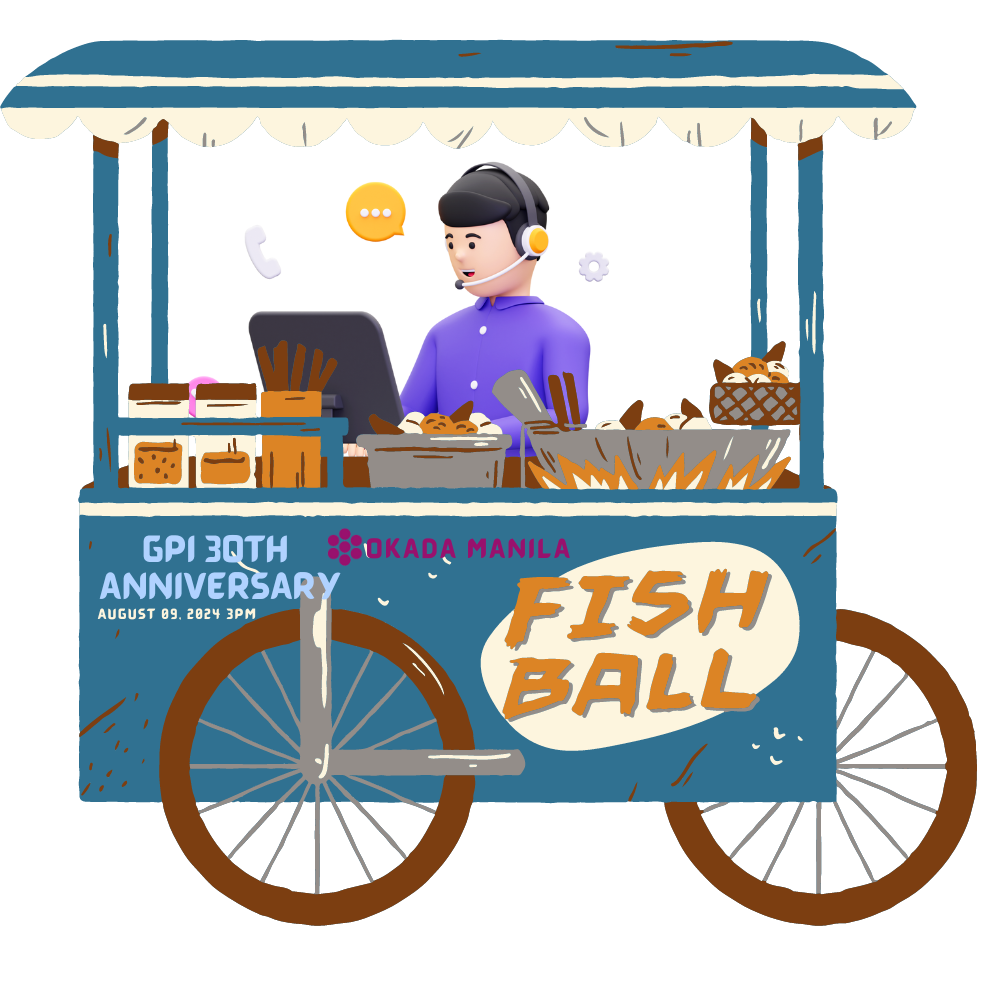
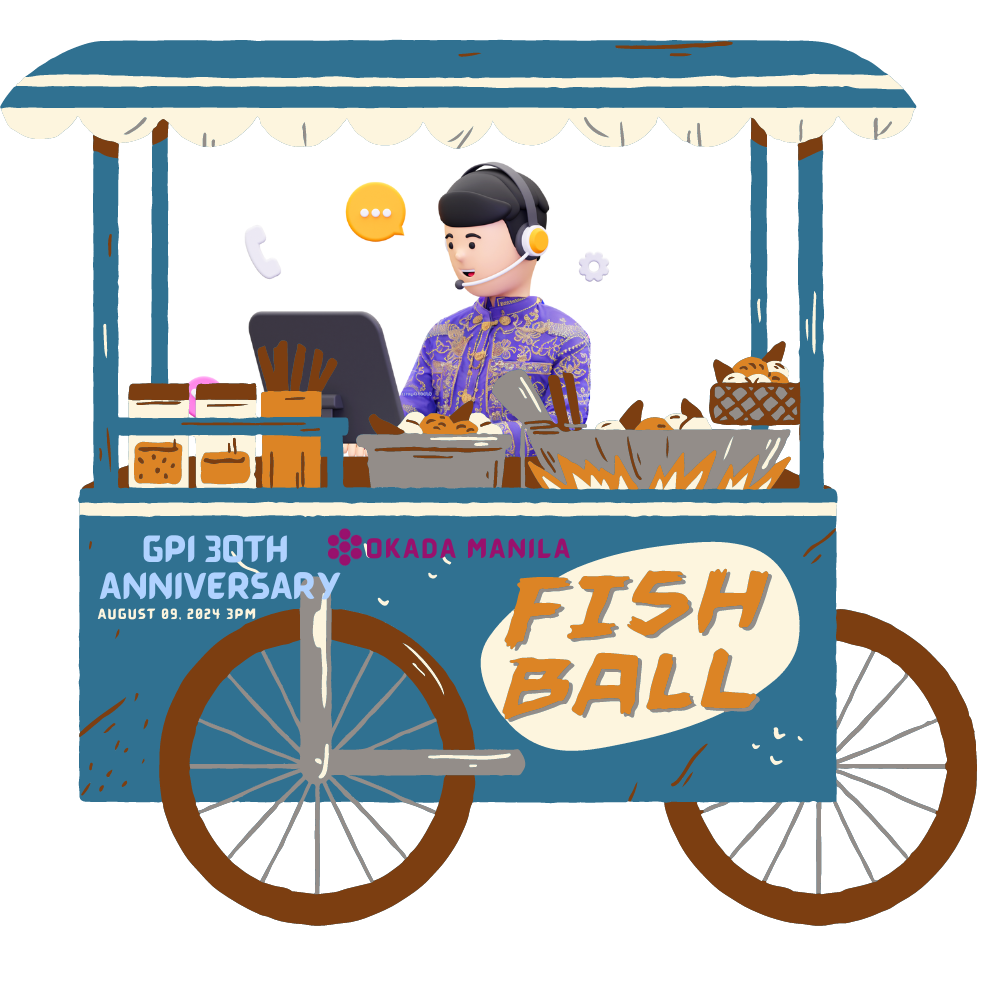
Fix job order filling error by increasing the character valu ein database and update sql in filled tickets tab

Changed region(s): [[0.403, 0.279, 0.589, 0.465]]

diff --git a/mis/index.php b/mis/index.php
@@ -795,13 +795,13 @@ if (isset($_POST['cancelJO'])) {
                                                     <div style="overflow:inherit" class="_qiHHw Ut_ecQ kHy45A">
                                                         <span class=" sr-only">Notifications</span>
                                                         <?php
-                                                        $sql1 = "SELECT COUNT(id) as 'pending' FROM request WHERE  `status2` ='admin' and `ticket_filer` = '$misname'";
+                                                        $sql1 = "SELECT COUNT(id) as 'pending' FROM request WHERE (`status2` ='admin' OR `status2` = 'head') AND `ticket_filer` = '$misname'";
                                                         $result = mysqli_query($con, $sql1);
                                                         while ($count = mysqli_fetch_assoc($result)) {
 
                                                             if ($count["pending"] > 0) {
                                                         ?>
-                                                                <div class=" absolute inline-flex items-center justify-center w-6 h-6 text-xs font-bold text-white bg-red-500 border-2 border-white rounded-full -top-2 -right-2 dark:border-border-white"> <?php $sql1 = "SELECT COUNT(id) as 'pending' FROM request WHERE  `status2` ='admin' and `ticket_filer` = '$misname'";
+                                                                <div class=" absolute inline-flex items-center justify-center w-6 h-6 text-xs font-bold text-white bg-red-500 border-2 border-white rounded-full -top-2 -right-2 dark:border-border-white"> <?php $sql1 = "SELECT COUNT(id) as 'pending' FROM request WHERE (`status2` ='admin' OR `status2` = 'head') AND `ticket_filer` = '$misname'";
                                                                                                                                                                                                                                                             $result = mysqli_query($con, $sql1);
                                                                                                                                                                                                                                                             while ($count = mysqli_fetch_assoc($result)) {
                                                                                                                                                                                                                                                                 echo $count["pending"];
@@ -981,8 +981,7 @@ if (isset($_POST['cancelJO'])) {
                             $end_date = $end_date->format('Y-m-d');
                             $a = 1;
                             $sql = "SELECT * FROM `request`
-                        WHERE `status2` ='admin'
-                        AND `ticket_filer` = '$misname'
+                        WHERE (`status2` ='admin' OR `status2` = 'head') AND `ticket_filer` = '$misname'
                         ORDER BY id ASC;";
                             $result = mysqli_query($con, $sql);
 

diff --git a/department-admin/myJobOrder.php b/department-admin/myJobOrder.php
@@ -793,13 +793,13 @@ if (isset($_POST['cancelJO'])) {
                                                     <div style="overflow:inherit" class="_qiHHw Ut_ecQ kHy45A">
                                                         <span class=" sr-only">Notifications</span>
                                                         <?php
-                                                        $sql1 = "SELECT COUNT(id) as 'pending' FROM request WHERE  `status2` ='admin' and `ticket_filer` = '$misname'";
+                                                        $sql1 = "SELECT COUNT(id) as 'pending' FROM request WHERE (`status2` ='admin' OR `status2` = 'head') AND `ticket_filer` = '$misname'";
                                                         $result = mysqli_query($con, $sql1);
                                                         while ($count = mysqli_fetch_assoc($result)) {
 
                                                             if ($count["pending"] > 0) {
                                                         ?>
-                                                                <div class=" absolute inline-flex items-center justify-center w-6 h-6 text-xs font-bold text-white bg-red-500 border-2 border-white rounded-full -top-2 -right-2 dark:border-border-white"> <?php $sql1 = "SELECT COUNT(id) as 'pending' FROM request WHERE  `status2` ='admin' and `ticket_filer` = '$misname'";
+                                                                <div class=" absolute inline-flex items-center justify-center w-6 h-6 text-xs font-bold text-white bg-red-500 border-2 border-white rounded-full -top-2 -right-2 dark:border-border-white"> <?php $sql1 = "SELECT COUNT(id) as 'pending' FROM request WHERE (`status2` ='admin' OR `status2` = 'head') AND `ticket_filer` = '$misname'";
                                                                                                                                                                                                                                                             $result = mysqli_query($con, $sql1);
                                                                                                                                                                                                                                                             while ($count = mysqli_fetch_assoc($result)) {
                                                                                                                                                                                                                                                                 echo $count["pending"];
@@ -979,7 +979,7 @@ if (isset($_POST['cancelJO'])) {
                             $end_date = $end_date->format('Y-m-d');
                             $a = 1;
                             $sql = "SELECT * FROM `request`
-                        WHERE `status2` ='admin'
+                        WHERE (`status2` ='admin' OR `status2` = 'head')
                         AND `ticket_filer` = '$misname'
                         ORDER BY id ASC;";
                             $result = mysqli_query($con, $sql);

diff --git a/mis/jo-form.php b/mis/jo-form.php
@@ -231,6 +231,10 @@ if (isset($_POST['submit'])) {
             }
         } else {
             echo "<script>alert('There is a problem with filing. Please contact your administrator.') </script>";
+            // echo $sql;
+            // echo $results;
+
+
         }
 ?>
 
